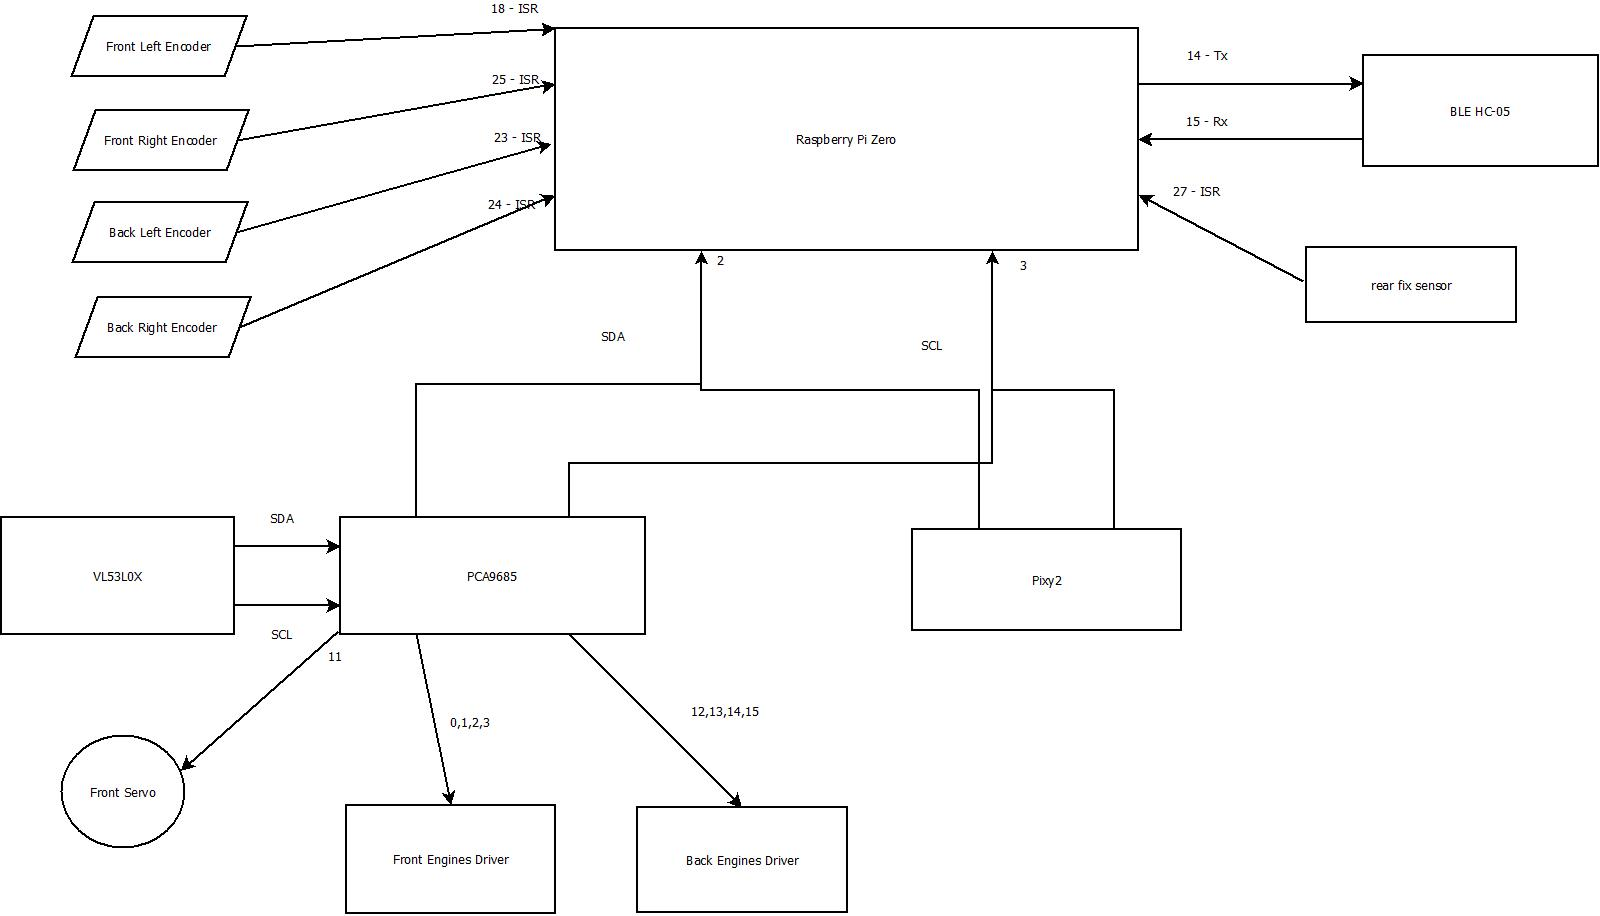
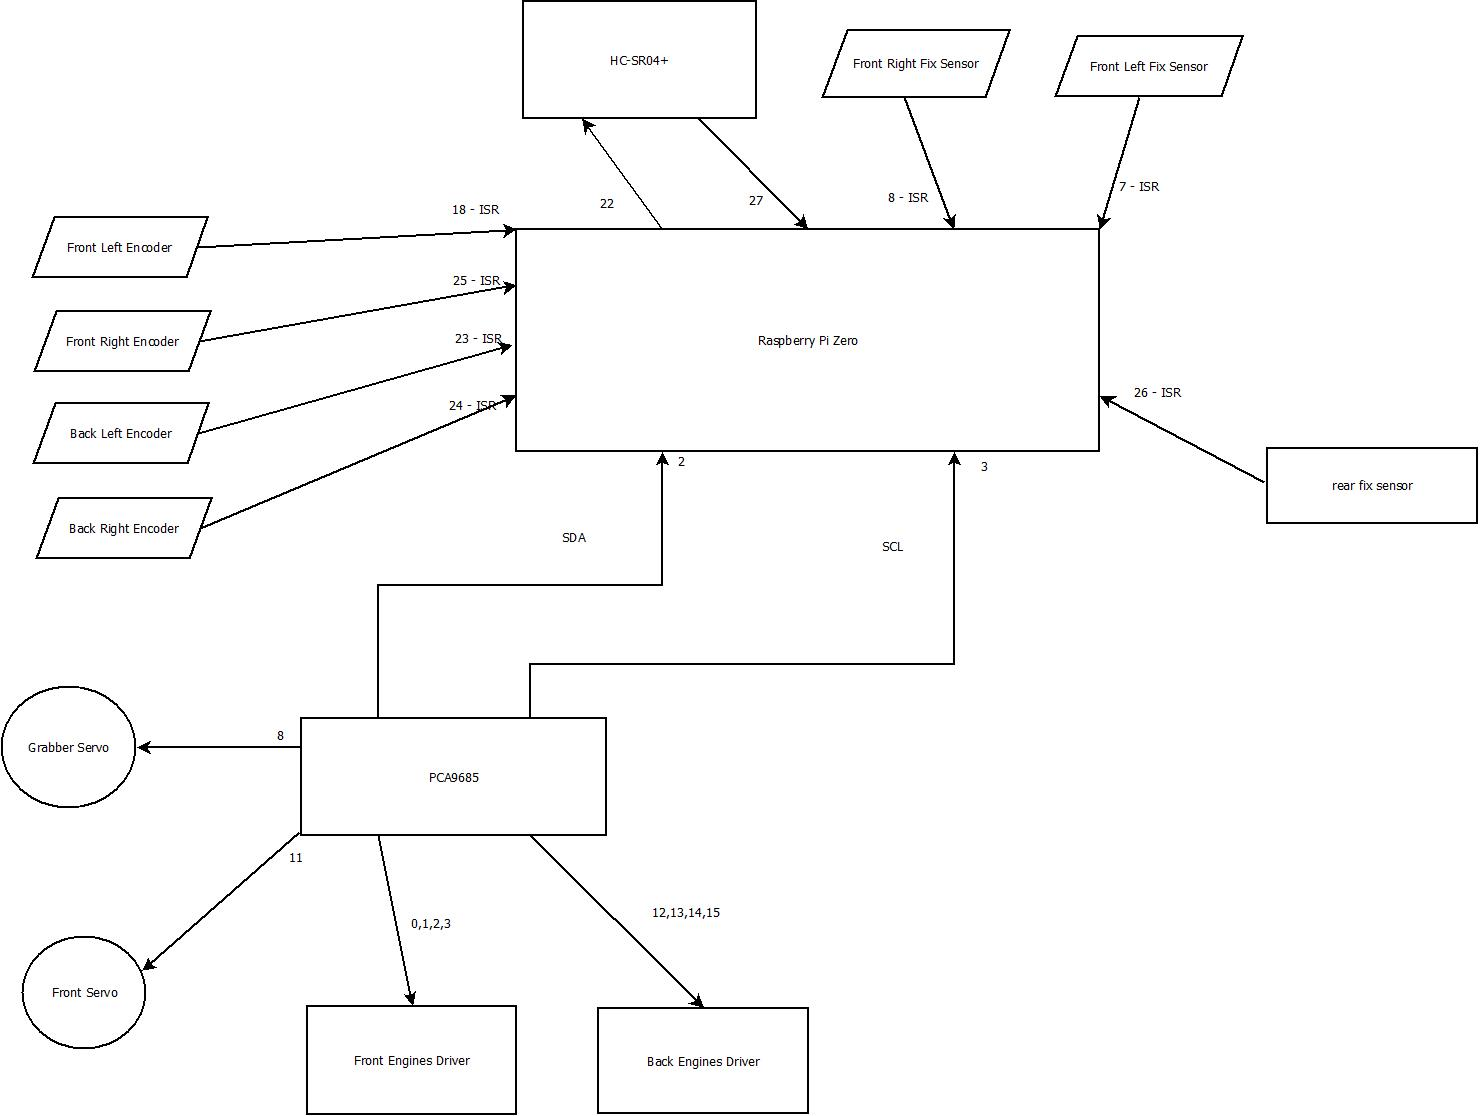
added docs

diff --git a/4wd/raspberrypi/README.md b/4wd/raspberrypi/README.md
@@ -1,0 +1,34 @@
+# DROID framework for RaspberryPI
+
+This project is a droid controled from command line on ble or std input/output, with front sensor to guard 
+against objects in front and when it take left/right turn.
+
+## Components
+Those projects have a 4wd chasy drive train:
+-   4 independent engines with encoders
+-   pca9685 pwm driver on I2C from https://www.adafruit.com/product/815
+-   2 micro motor drivers MX1509
+-   4 U-shape sensors for encoder
+-   LM7005 for powering servo from 7.4V power pack
+-   AMS1117 for powering moving sensors
+
+Sensors:
+-   HC-SR4+ sensor
+-   servo 9g for HC-SR4+ sensor controlled by pwm driver
+-   SHARP 10 cm fix sensor in rear position
+-   two fix digital sensor in front
+
+BLE HC05 or direct connection on raspbery pi zero for user interactions and logging
+
+## Pictures and schematics
+### Power connections
+![Power lines](./docs/power_lines.jpeg)
+### Logical connections
+![Logical lines](./docs/logical_lines.jpeg)
+
+## Build:
+
+Modify the settings.sh to match your build directory of :
+
+- PREFIX_GPIO to libs of https://github.com/joan2937/pigpio
+- PREFIX_DRIVERS to drivers from https://github.com/gdimitriu/raspberrypizero.git

diff --git a/framework/raspberrypi/README.md b/framework/raspberrypi/README.md
@@ -3,27 +3,6 @@
 This project is a droid controled from command line on ble or std input/output, with front sensor to guard 
 against objects in front and when it take left/right turn.
 
-## Components
-Those projects have a 4wd chasy drive train:
--   4 independent engines with encoders
--   pca9685 pwm driver on I2C from https://www.adafruit.com/product/815
--   2 micro motor drivers MX1509
--   4 U-shape sensors for encoder
--   LM7005 for powering servo from 7.4V power pack
-
-Sensors:
--   VL53L0X TOF IR sensor on I2C from https://www.pololu.com/product/2490 in front position
--   servo 9g for TOF sensor controlled by pwm driver
--   SHARP 10 cm fix sensor in rear position
-
-BLE HC05 for user interactions and logging
-
-## Pictures and schematics
-### Power connections
-![Power lines](./docs/power_lines.jpeg)
-### Logical connections
-![Logical lines](./docs/logical_lines.jpeg)
-
 ## Build:
 
 Modify the settings.sh to match your build directory of :

diff --git a/README.md b/README.md
@@ -17,4 +17,4 @@ x wheel drive droid using Raspberry PI zero [droid_framework](framework/raspberr
 - This is the framework that is used into 4wd droid using Raspberry Pi (the 4wd droid using Arduino is the base chassy)
 - This could have multiple configuration for any kind of droid
 - It has configuration files that configure the droid using factories
-
+x wheel drive droid using Raspberry PI zero [droid_4wd](4wd/raspberrypi/README.md)
